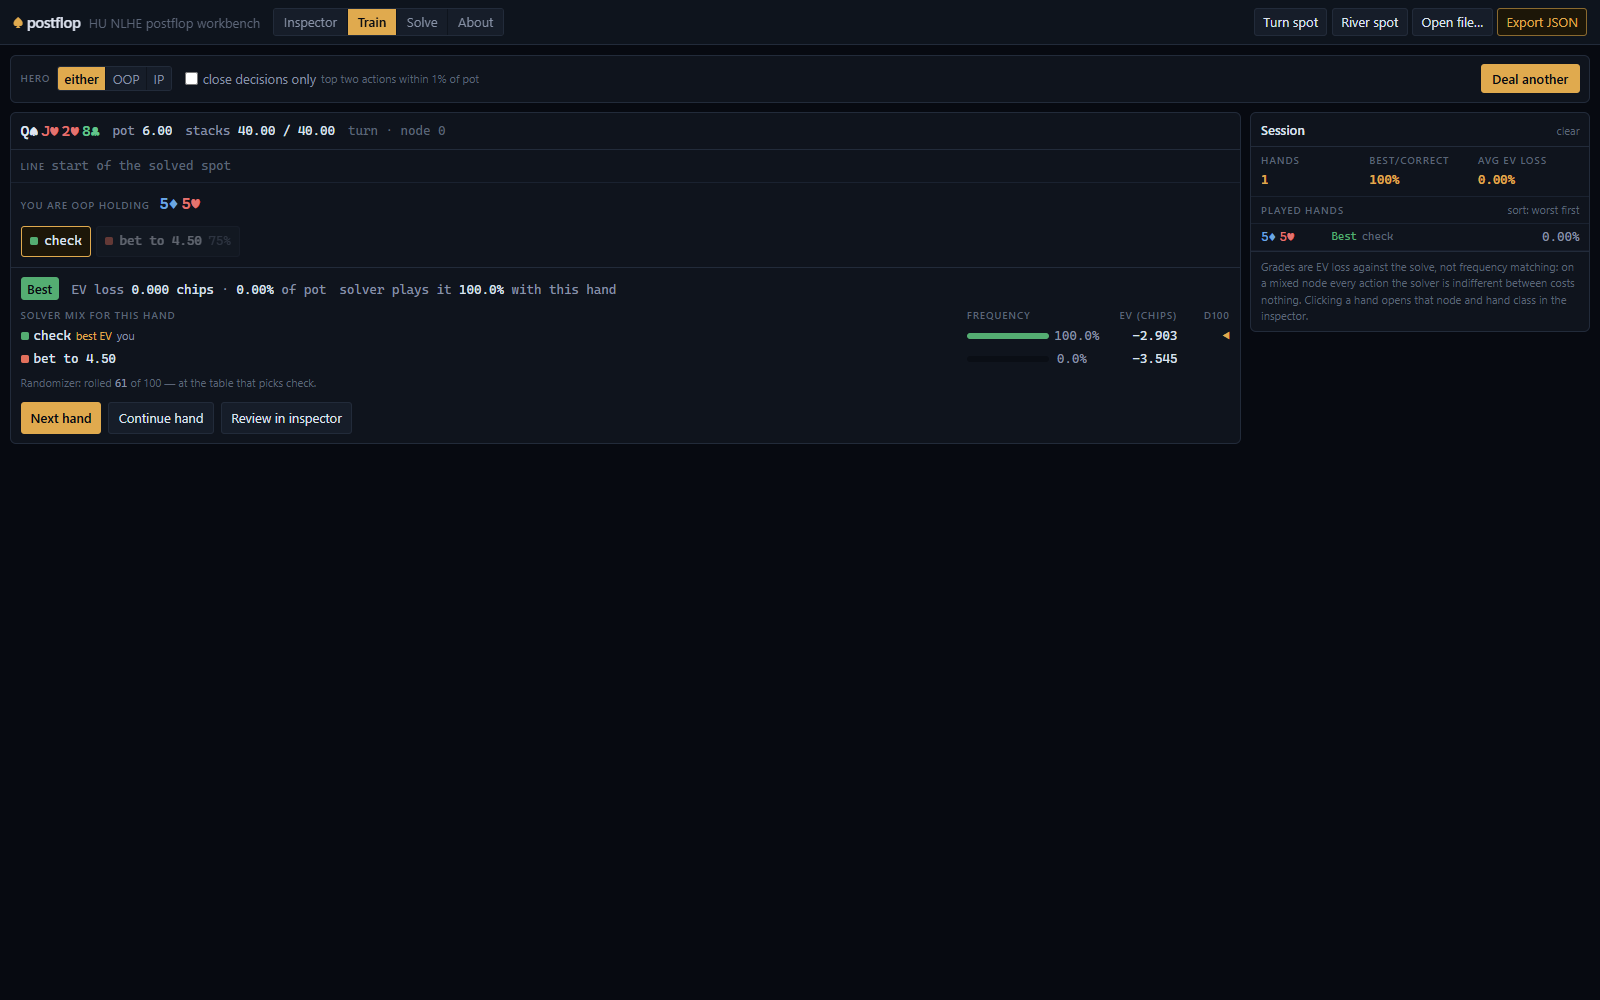
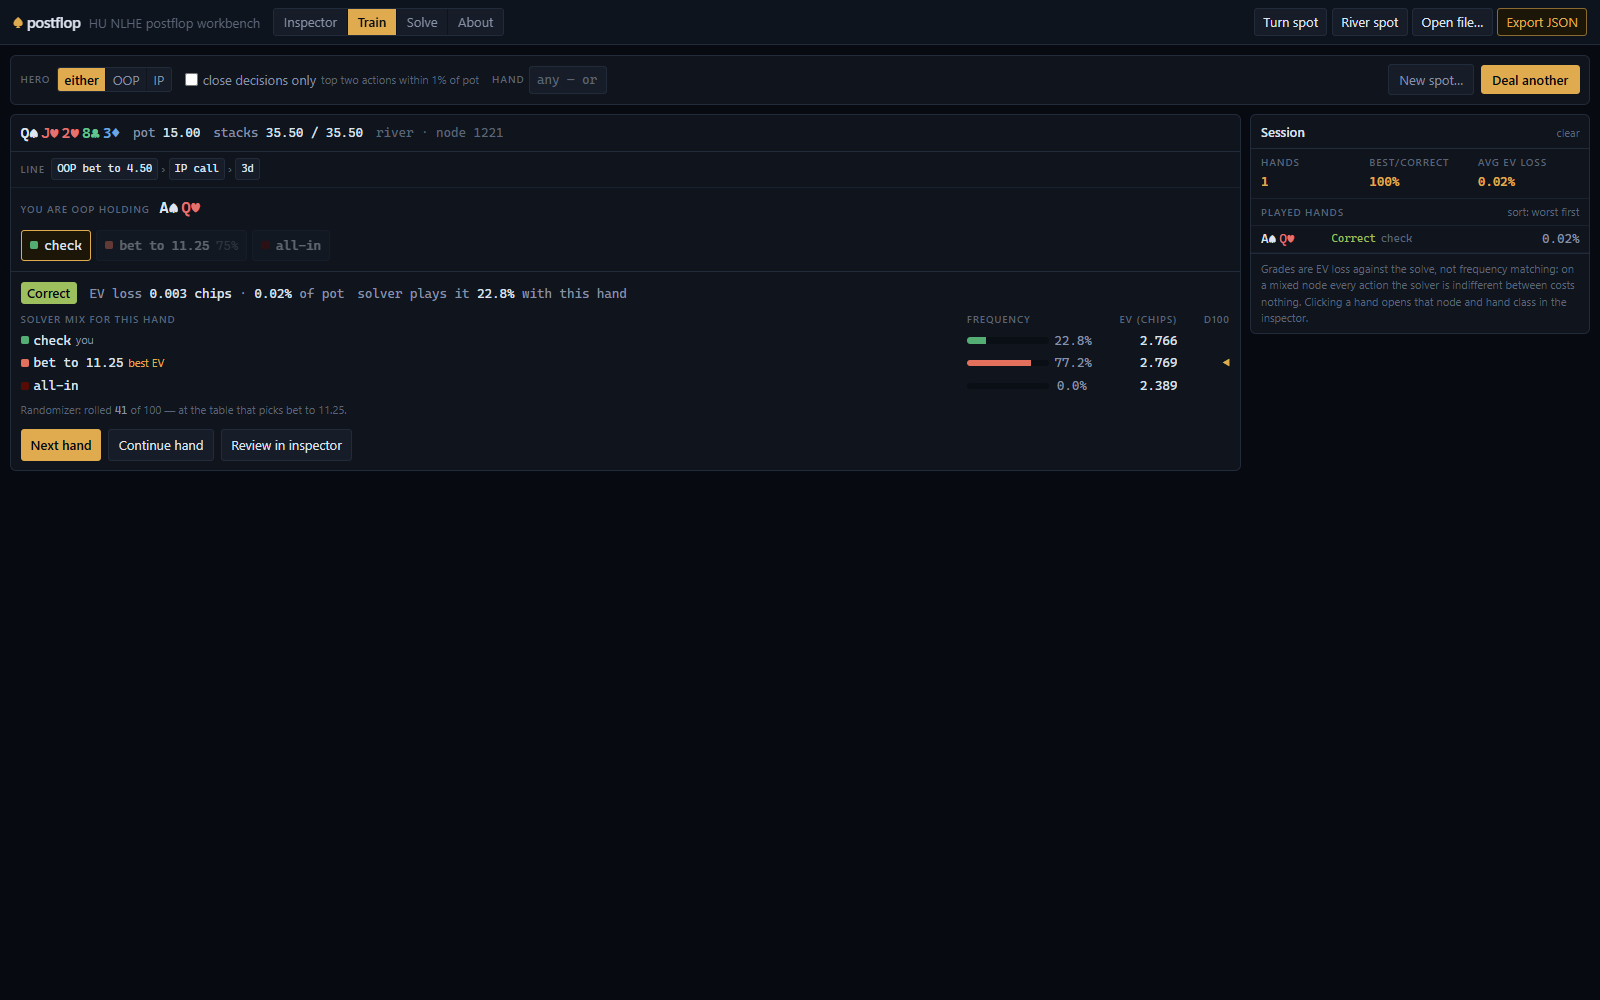
Self-serve trainer: solve or load a spot inside the Train tab, drill a chosen hand
The Train tab no longer dead-ends without a solution. Empty state shows
a spot picker: the bundled samples one click away, plus the full solve
form (presets, board, paintable ranges, stacks, sizings) embedded in
the tab — the trainer deals its first hand automatically the moment
the solve converges or the sample loads, without leaving the tab
(adopt() gained a keep-tab flag). A "New spot…" toggle reopens the
setup over a loaded solution without losing the session.

New hand filter in the trainer bar: type an exact combo (AhKd, any
case/order/separator) and every deal holds it — the dealer walks lines
with those cards excluded from runouts and skips nodes where the combo
is dead or ungradeable. parseHand/flipHand live in lib/trainer.ts with
tests; a chosen hand overrides the close-decisions filter.

README and site copy updated to match; fresh trainer screenshot shows
the new bar and a mixed-node grade on a multi-street line.

Changed region(s): [[0.0, 0.062, 1.0, 0.465], [0.8438, 0.155, 0.9688, 0.217]]

diff --git a/web/components/TrainPanel.tsx b/web/components/TrainPanel.tsx
@@ -1,15 +1,18 @@
 "use client";
 
-import { useCallback, useMemo, useState } from "react";
+import { useCallback, useEffect, useMemo, useRef, useState } from "react";
 import { Cards, ComboCards } from "@/components/Card";
+import SolvePanel from "@/components/SolvePanel";
 import { actionColors, cellOf, comboFreqs, rangeFreqs } from "@/lib/grid";
 import {
   TIER_COLOR,
   TIER_LABEL,
+  flipHand,
   grade,
   gradeable,
   isClose,
   loadHistory,
+  parseHand,
   pickUniform,
   pickWeighted,
   rollAction,
@@ -143,8 +146,10 @@ function makeSpot(
 
   let slot: number;
   if (cards !== null) {
-    slot = combos.findIndex((c) => c.cards === cards);
-    if (slot < 0 || !gradeable(at(slot))) return null;
+    // The solution spells each combo in its own canonical order; the user's spelling
+    // (or a combo carried from an earlier street) may be flipped.
+    slot = combos.findIndex((c) => c.cards === cards || c.cards === flipHand(cards));
+    if (slot < 0 || combos[slot].weight <= 0 || !gradeable(at(slot))) return null;
   } else {
     const weights = combos.map((c, i) => {
       const row = at(i);
@@ -171,15 +176,33 @@ function makeSpot(
 
 interface Props {
   handle: SolutionHandle | null;
+  /** Bundled instant spots, so training can start with zero setup. */
+  samples: { file: string; name: string; detail: string }[];
+  onLoadSample: (file: string, name: string) => void;
+  /** A solve finished inside this tab's own setup panel; the parent adopts it. */
+  onSolved: (json: string, wall: number) => void;
   /** Jump the inspector to a played hand's node and grid cell. */
   onReview: (node: number, cell: { row: number; col: number }) => void;
   /** Injected so the dealer is deterministic in a test; the app passes Math.random. */
   rng?: Rng;
 }
 
-export default function TrainPanel({ handle, onReview, rng = Math.random }: Props) {
+export default function TrainPanel({
+  handle,
+  samples,
+  onLoadSample,
+  onSolved,
+  onReview,
+  rng = Math.random,
+}: Props) {
   const [seat, setSeat] = useState<"any" | "oop" | "ip">("any");
   const [closeOnly, setCloseOnly] = useState(false);
+  /** Optional "train this exact hand" filter, e.g. "AhKd"; empty means deal randomly. */
+  const [handText, setHandText] = useState("");
+  /** The spot-setup panel, shown when nothing is loaded or on request for a new spot. */
+  const [setupOpen, setSetupOpen] = useState(false);
+  /** Deal automatically as soon as the solution this tab just solved (or loaded) lands. */
+  const autoDeal = useRef(false);
   /**
    * The dealt hand, tagged with the solution it came from: loading another solution frees
    * the old handle and invalidates every node id in the spot, so anything dealt from it is
@@ -199,14 +222,27 @@ export default function TrainPanel({ handle, onReview, rng = Math.random }: Prop
   const spot = current?.spot ?? null;
   const note = current?.note ?? null;
 
+  /** `null` when the hand box is empty, a combo string when it parses, `false` on junk. */
+  const fixedHand = handText.trim() === "" ? null : parseHand(handText) ?? false;
+
   const deal = useCallback(() => {
-    if (!handle) return;
+    if (!handle || fixedHand === false) return;
     setResult(null);
     for (let tries = 0; tries < MAX_DEALS; tries++) {
       const hero: 0 | 1 = seat === "any" ? (rng() < 0.5 ? 0 : 1) : seat === "oop" ? 0 : 1;
-      const walk = walkToHero(handle, 0, hero, null, STOP_AT_HERO, rng, []);
+      const walk = walkToHero(handle, 0, hero, fixedHand, STOP_AT_HERO, rng, []);
       if (walk.kind !== "hero") continue;
-      const next = makeSpot(handle, walk.node, hero, walk.history, closeOnly, rng, null);
+      // A chosen hand overrides the close-decisions filter: the user asked for this
+      // exact combo, not for whichever combos happen to mix here.
+      const next = makeSpot(
+        handle,
+        walk.node,
+        hero,
+        walk.history,
+        fixedHand ? false : closeOnly,
+        rng,
+        fixedHand,
+      );
       if (next) {
         setDealt({ handle, spot: next, note: null });
         return;
@@ -215,11 +251,23 @@ export default function TrainPanel({ handle, onReview, rng = Math.random }: Prop
     setDealt({
       handle,
       spot: null,
-      note: closeOnly
-        ? `No close decision (top two actions within 1% of pot) turned up in ${MAX_DEALS} random lines. Turn the filter off, or load a spot with more mixing.`
-        : `No gradeable spot for that seat in ${MAX_DEALS} random lines.`,
+      note: fixedHand
+        ? `${fixedHand} never reached a gradeable decision for that seat in ${MAX_DEALS} random lines — it may be outside the range, blocked by the board, or at zero weight.`
+        : closeOnly
+          ? `No close decision (top two actions within 1% of pot) turned up in ${MAX_DEALS} random lines. Turn the filter off, or load a spot with more mixing.`
+          : `No gradeable spot for that seat in ${MAX_DEALS} random lines.`,
     });
-  }, [handle, seat, closeOnly, rng]);
+  }, [handle, seat, closeOnly, rng, fixedHand]);
+
+  // A solution just arrived that this tab asked for (its own solve, or a sample chosen
+  // from the setup panel): start dealing without another click.
+  useEffect(() => {
+    if (handle && autoDeal.current) {
+      autoDeal.current = false;
+      setSetupOpen(false);
+      deal();
+    }
+  }, [handle, deal]);
 
   const answer = (chosen: number) => {
     if (!spot || result) return;
@@ -309,21 +357,82 @@ export default function TrainPanel({ handle, onReview, rng = Math.random }: Prop
           <span className="text-[11px] text-dim">top two actions within 1% of pot</span>
         </label>
 
-        <button
-          data-testid="train-deal"
-          disabled={!handle}
-          onClick={deal}
-          className="ml-auto rounded bg-accent px-3.5 py-1.5 font-semibold text-ink hover:bg-[#efbc60] disabled:opacity-40"
-        >
-          {spot ? "Deal another" : "Deal a hand"}
-        </button>
+        <label className="flex items-center gap-1.5 text-muted">
+          <span className="label">hand</span>
+          <input
+            data-testid="train-hand"
+            value={handText}
+            onChange={(e) => setHandText(e.target.value)}
+            placeholder="any — or AhKd"
+            spellCheck={false}
+            className={`num w-24 rounded border bg-raised px-2 py-1 text-text placeholder:text-dim ${
+              fixedHand === false ? "border-card-h" : "border-line"
+            }`}
+          />
+          {fixedHand === false && <span className="text-[11px] text-card-h">two cards, e.g. AhKd</span>}
+        </label>
+
+        <div className="ml-auto flex items-center gap-2">
+          {handle && (
+            <button
+              data-testid="train-new-spot"
+              onClick={() => setSetupOpen((s) => !s)}
+              className="rounded border border-line bg-raised px-3 py-1.5 text-muted hover:border-accent-dim hover:text-text"
+            >
+              {setupOpen ? "Close setup" : "New spot…"}
+            </button>
+          )}
+          <button
+            data-testid="train-deal"
+            disabled={!handle || fixedHand === false}
+            onClick={deal}
+            className="rounded bg-accent px-3.5 py-1.5 font-semibold text-ink hover:bg-[#efbc60] disabled:opacity-40"
+          >
+            {spot ? "Deal another" : "Deal a hand"}
+          </button>
+        </div>
       </section>
 
-      {!handle ? (
-        <div className="panel flex items-center justify-center px-8 py-12 text-dim">
-          Load a solution first — the trainer deals from the solved tree, it does not solve.
-        </div>
-      ) : (
+      {(!handle || setupOpen) && (
+        <section className="flex flex-col gap-3">
+          <div className="panel flex flex-wrap items-center gap-x-4 gap-y-2 px-3 py-2.5">
+            <span className="font-semibold">
+              {handle ? "Set up a new spot" : "Pick a spot to train"}
+            </span>
+            <span className="text-dim">
+              start instantly from a sample, or set up any board, ranges and stacks below —
+              the trainer starts dealing the moment it solves.
+            </span>
+            <div className="ml-auto flex gap-2">
+              {samples.map((s) => (
+                <button
+                  key={s.file}
+                  data-testid={`train-sample-${s.file}`}
+                  onClick={() => {
+                    autoDeal.current = true;
+                    onLoadSample(s.file, s.name);
+                  }}
+                  className="rounded border border-line bg-raised px-3 py-1.5 hover:border-accent-dim"
+                  title={s.detail}
+                >
+                  {s.name}
+                </button>
+              ))}
+            </div>
+          </div>
+          <SolvePanel
+            locks={[]}
+            onRemoveLock={() => {}}
+            onClearLocks={() => {}}
+            onSolved={(json, wall) => {
+              autoDeal.current = true;
+              onSolved(json, wall);
+            }}
+          />
+        </section>
+      )}
+
+      {!handle ? null : (
         <div className="grid flex-1 gap-3 xl:grid-cols-[minmax(0,1fr)_340px]">
           <section className="panel flex flex-col overflow-hidden">
             {note && (

diff --git a/web/components/Workbench.tsx b/web/components/Workbench.tsx
@@ -106,7 +106,7 @@ export default function Workbench() {
     initialParams.current = new URLSearchParams(window.location.search);
   }, []);
 
-  const adopt = useCallback((json: string, label: string) => {
+  const adopt = useCallback((json: string, label: string, keepTab = false) => {
     setError(null);
     setLoading(true);
     return loadWasm()
@@ -145,7 +145,7 @@ export default function Workbench() {
         setNodeId(initNode);
         setPath([]);
         setSelected(initSelected);
-        setTab("inspect");
+        if (!keepTab) setTab("inspect");
       })
       .catch((e: unknown) => {
         setError(e instanceof Error ? e.message : String(e));
@@ -153,13 +153,13 @@ export default function Workbench() {
       .finally(() => setLoading(false));
   }, []);
 
-  const loadSample = async (file: string, name: string) => {
+  const loadSample = async (file: string, name: string, keepTab = false) => {
     setError(null);
     setLoading(true);
     try {
       const res = await fetch(`/fixtures/${file}`);
       if (!res.ok) throw new Error(`could not fetch ${file}: HTTP ${res.status}`);
-      await adopt(await res.text(), name);
+      await adopt(await res.text(), name, keepTab);
     } catch (e) {
       setError(e instanceof Error ? e.message : String(e));
       setLoading(false);
@@ -465,6 +465,9 @@ export default function Workbench() {
       <div hidden={tab !== "train"}>
         <TrainPanel
           handle={handle}
+          samples={SAMPLES}
+          onLoadSample={(file, name) => void loadSample(file, name, true)}
+          onSolved={(json, wall) => adopt(json, `browser solve (${wall.toFixed(2)}s)`, true)}
           onReview={(node, cell) => {
             setNodeId(node);
             setPath([]);

diff --git a/site/index.html b/site/index.html
@@ -456,7 +456,7 @@ footer { border-top: 1px solid var(--line-soft); padding: 48px 0 64px; }
     <div class="media-row">
       <div class="media-copy">
         <h3>Train against the solve</h3>
-        <p>Deal a hand from the loaded solution — board, pot, and line, but not the strategy. Pick an action and it is graded on the chips it costs against the solve, Best through Blunder, with the full solver mix and a d100 randomizer revealed after you answer. A running session score and a worst-hands-first review list; a "close decisions only" filter serves just the spots where the top two actions are nearly indifferent.</p>
+        <p>Self-contained: pick a sample spot or set up any board, ranges and stacks right in the trainer, and it deals the first hand the moment the solve converges — board, pot, and line, but not the strategy. Pick an action and it is graded on the chips it costs, Best through Blunder, with the full solver mix and a d100 randomizer revealed after you answer. A running session score, a worst-hands-first review list, a "close decisions only" filter — and type an exact hand like AhKd to drill that combo on every deal.</p>
       </div>
       <figure class="media-shot crop-top" style="aspect-ratio: 1600 / 470;"><img src="screens/08-trainer.png" alt="The trainer: holding 5d5h on Qs Jh 2h 8c, the check answer graded Best with EV loss 0.000 chips, the solver mix shown with a d100 randomizer, and a session panel tracking played hands" width="1600" height="1000" loading="lazy"></figure>
     </div>

diff --git a/web/lib/trainer.test.ts b/web/lib/trainer.test.ts
@@ -4,9 +4,11 @@
 import assert from "node:assert/strict";
 import {
   BEST_FREQ,
+  flipHand,
   gradeable,
   grade,
   isClose,
+  parseHand,
   loadHistory,
   pickUniform,
   pickWeighted,
@@ -171,5 +173,18 @@ assert.deepEqual(loadHistory(), []);
 delete (globalThis as { localStorage?: unknown }).localStorage;
 assert.doesNotThrow(() => loadHistory(), "no localStorage global must not escape loadHistory");
 assert.doesNotThrow(() => saveHistory([rec("best", 0)]), "nor saveHistory");
+
+// --- parseHand / flipHand ------------------------------------------------------------
+assert.equal(parseHand("AhKd"), "AhKd");
+assert.equal(parseHand("ah kd"), "AhKd", "case and a space normalize");
+assert.equal(parseHand("KD,AH"), "KdAh", "comma separator, order preserved as typed");
+assert.equal(parseHand("Th9h"), "Th9h");
+assert.equal(parseHand("AhAh"), null, "the same card twice is not a hand");
+assert.equal(parseHand("Ah"), null, "one card is not a hand");
+assert.equal(parseHand("AhKx"), null, "bad suit");
+assert.equal(parseHand("1hKd"), null, "bad rank");
+assert.equal(parseHand(""), null);
+assert.equal(flipHand("AhKd"), "KdAh");
+assert.equal(flipHand(flipHand("AhKd")), "AhKd");
 
 console.log("trainer.test.ts: ok");

diff --git a/web/lib/trainer.ts b/web/lib/trainer.ts
@@ -52,6 +52,27 @@ export interface Grade {
 }
 
 /**
+ * Parse a hand the user typed — "AhKd", "ah kd", "KD AH" — into the engine's combo
+ * spelling (rank uppercase, suit lowercase, in the order typed), or `null` when it
+ * isn't two distinct cards. Matching against a combo list should try both card orders;
+ * the solution spells each combo in its own canonical order.
+ */
+export function parseHand(text: string): string | null {
+  const m = text
+    .trim()
+    .match(/^([2-9tjqka])([cdhs])[\s,]*([2-9tjqka])([cdhs])$/i);
+  if (!m) return null;
+  const a = m[1].toUpperCase() + m[2].toLowerCase();
+  const b = m[3].toUpperCase() + m[4].toLowerCase();
+  return a === b ? null : a + b;
+}
+
+/** The same two cards in the other order, for matching a combo list. */
+export function flipHand(hand: string): string {
+  return hand.slice(2) + hand.slice(0, 2);
+}
+
+/**
  * True when every action at the node has a defined EV for this combo. `combo_evs` is
  * `NaN` where the opponent's range cannot reach the child holding anything this hand
  * does not block, and a spot with such a hole cannot be graded — the dealer skips it.

diff --git a/README.md b/README.md
@@ -172,10 +172,12 @@ On top of that:
 - **Runout hotness** — the turn/river card selector colored green/red by how
   each runout shifts hero EV (range-wide or for one selected combo), with
   arrow-key stepping between sibling runouts.
-- **Trainer** — deal spots from the loaded solution, answer, and get graded by
-  EV loss (Best → Blunder tiers) with a running session score and a
-  worst-hands-first review list. A "close decisions only" filter serves just
-  the spots where actions are nearly indifferent.
+- **Trainer** — self-contained: pick a sample spot or set up any board, ranges
+  and stacks right in the tab, and it starts dealing the moment the solve
+  converges. Answer and get graded by EV loss (Best → Blunder tiers) with a
+  running session score and a worst-hands-first review list. Filters for seat,
+  "close decisions only", and an exact hand of your choice (type `AhKd` and
+  every deal holds it).
 - **Node locking** — lock the inspected node to its displayed strategy, then
   re-solve to see the exploit; pending locks are validated against the spot
   they were captured on.
